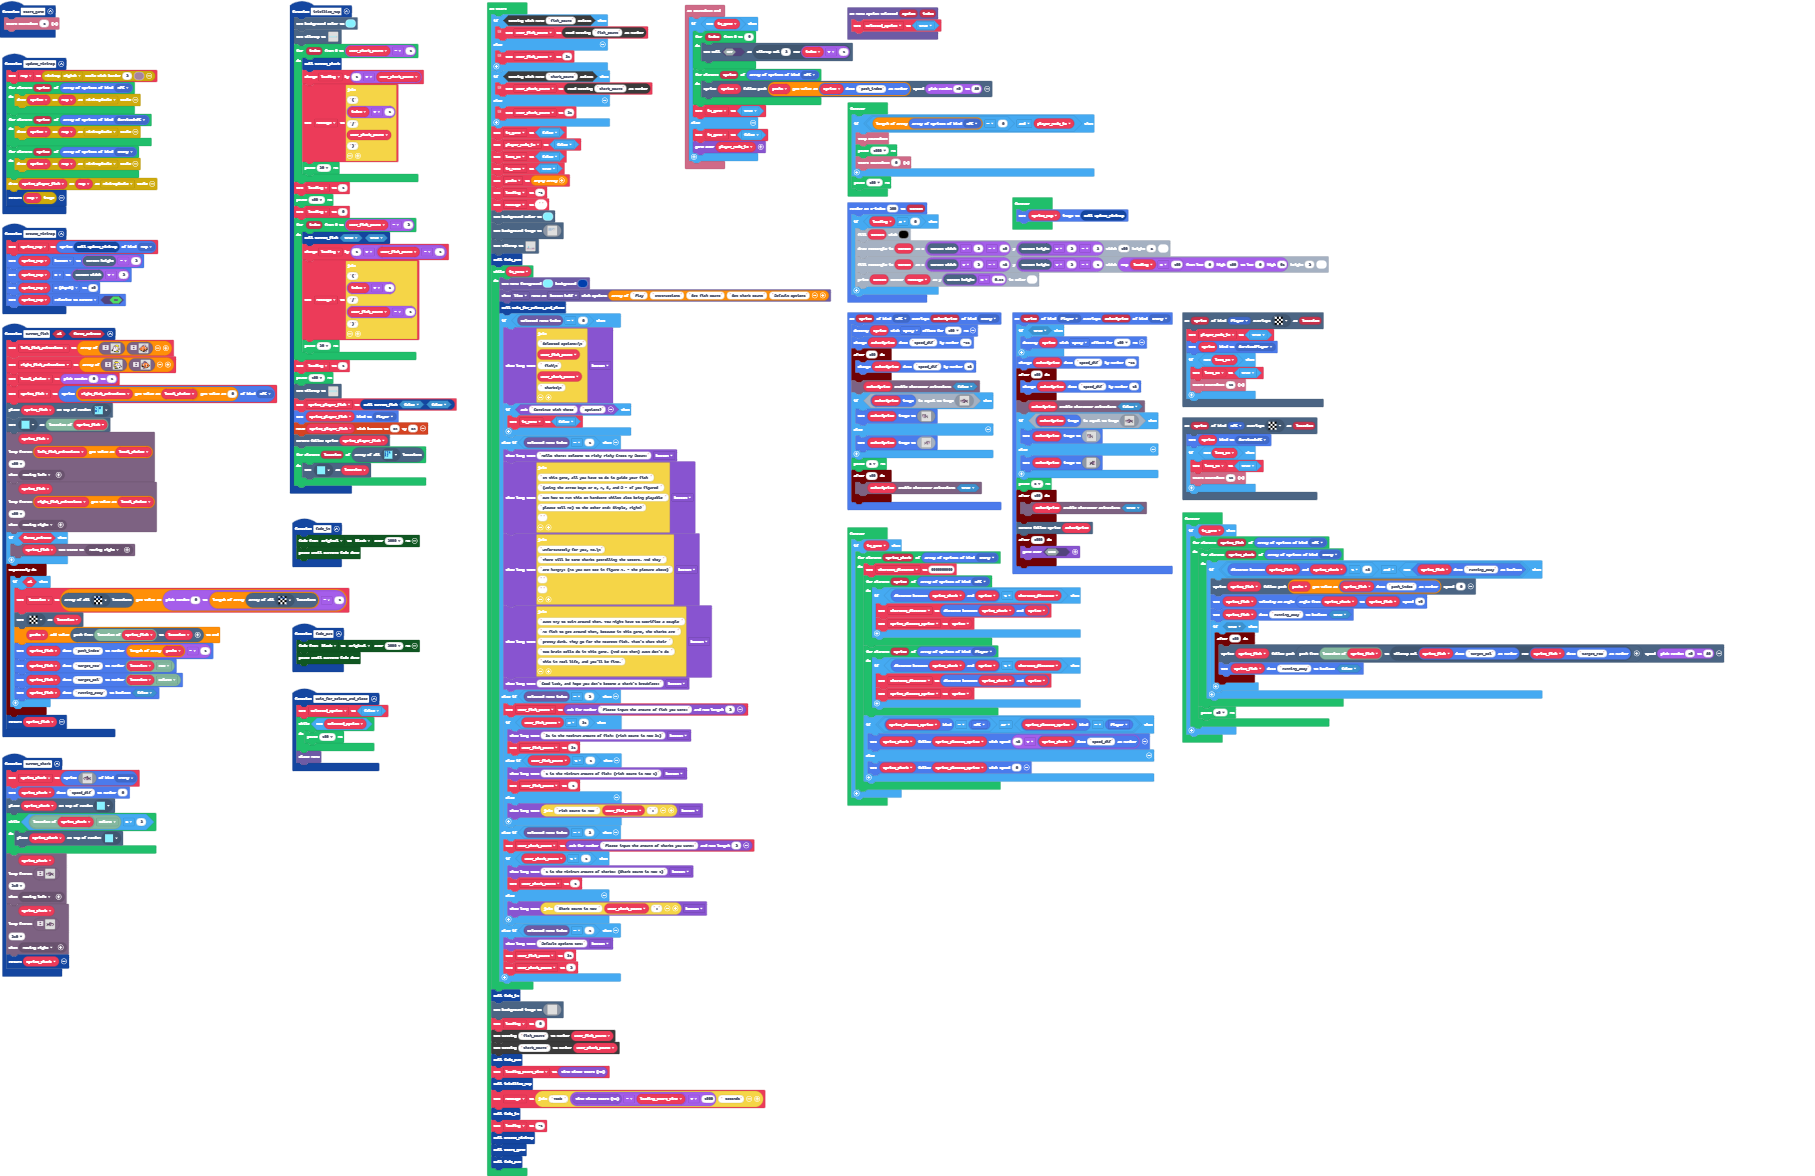
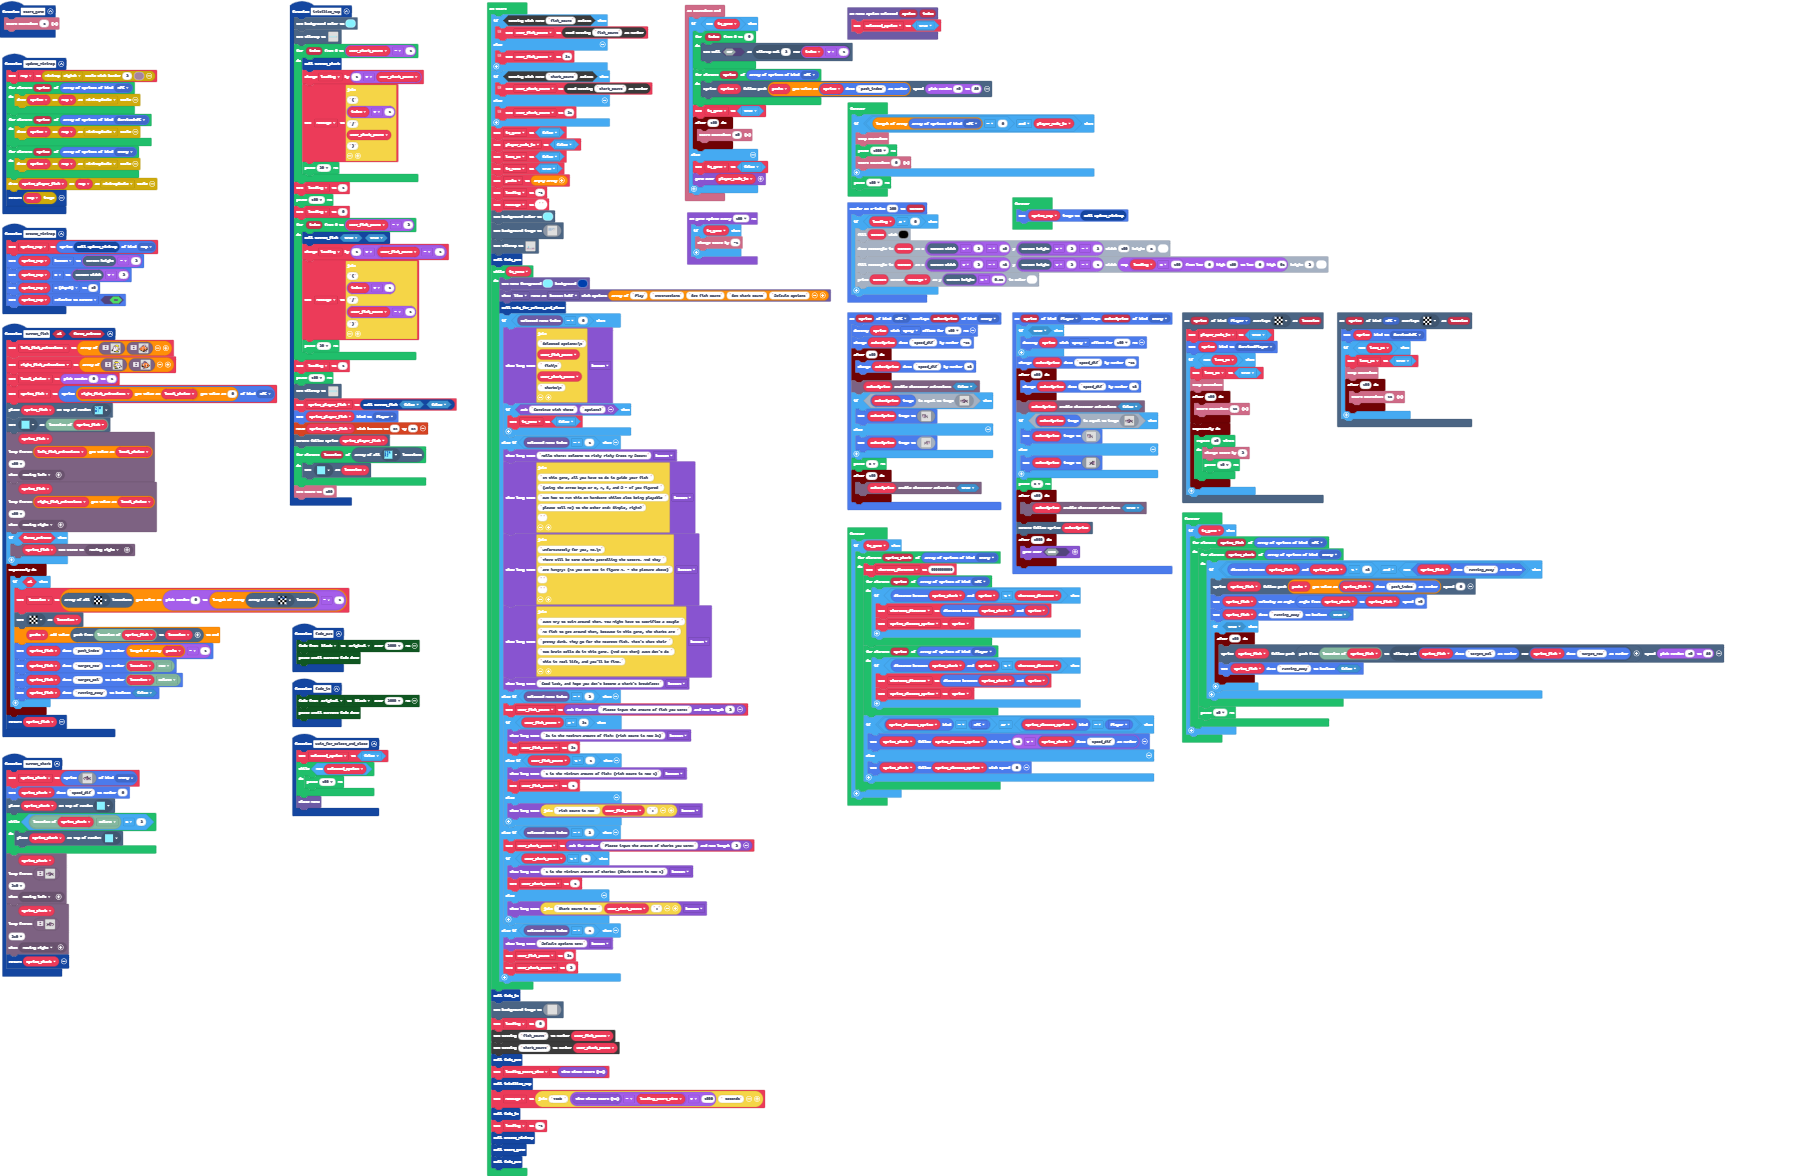
Scoring!

diff --git a/main.ts b/main.ts
@@ -119,7 +119,10 @@ scene.onOverlapTile(SpriteKind.NPC, myTiles.tile12, function (sprite, location) 
     sprite.setKind(SpriteKind.SurvivedNPC)
     if (!(last_15)) {
         last_15 = true
-        info.startCountdown(15)
+        info.stopCountdown()
+        timer.after(100, function () {
+            info.startCountdown(15)
+        })
     }
 })
 function fade_out () {
@@ -142,6 +145,9 @@ info.onCountdownEnd(function () {
             scene.followPath(sprite, paths[sprites.readDataNumber(sprite, "path_index")], randint(40, 80))
         }
         in_game = true
+        timer.after(100, function () {
+            info.startCountdown(60)
+        })
     } else {
         in_game = false
         game.over(player_made_it)
@@ -156,7 +162,16 @@ scene.onOverlapTile(SpriteKind.Player, myTiles.tile12, function (sprite, locatio
     sprite.setKind(SpriteKind.SurvivedPlayer)
     if (!(last_15)) {
         last_15 = true
-        info.startCountdown(15)
+        info.stopCountdown()
+        timer.after(100, function () {
+            info.startCountdown(15)
+        })
+        timer.background(function () {
+            for (let index = 0; index < 50; index++) {
+                info.changeScoreBy(2)
+                pause(10)
+            }
+        })
     }
 })
 sprites.onOverlap(SpriteKind.NPC, SpriteKind.Enemy, function (sprite, otherSprite) {
@@ -284,6 +299,7 @@ function initilize_map () {
     for (let location of tiles.getTilesByType(myTiles.tile13)) {
         tiles.setTileAt(location, myTiles.tile15)
     }
+    info.setScore(600)
 }
 function update_minimap () {
     map = minimap.minimap(MinimapScale.Eighth, 2, 11)
@@ -541,11 +557,11 @@ scene.setBackgroundImage(img`
     ...........................................................................................................ffcbbbbbff1cccc1f...f44144fc4144f44f.................
     ..........................................................................................................fcccbcbcbb1c1c1cff...fff144f4c144444f.................
     ......666666666...666666666...666666666...666666666...6666.....666...666..........................ccccc..fcccbcbcbbb1333ccf......fd44f4414444f..................
-    ......6888888888..6888888888..6888888888..6888888888..6888.....6888..6888..8...888...8.8..........cbbddcfccccbcbcbbb1c333c........fd44cc4144f...................
-    ......6888888888..6888888888..6888888888..6888888888..6888.....6888..6888..8.....8...8.8...........ccbddcccccbbbbbbb1c333c........fc444444df....................
+    ......6888888888..6888888888..6888888888..6888888888..6888.....6888..6888..8...888...888..........cbbddcfccccbcbcbbb1c333c........fd44cc4144f...................
+    ......6888888888..6888888888..6888888888..6888888888..6888.....6888..6888..8.....8...8.............ccbddcccccbbbbbbb1c333c........fc444444df....................
     ......6888888888..6888888888..6888888888..6888888888..688866...6888..6888..8...888...888............ccbbccccccbbbbb11c333c.......cbdc4444ff.....................
     ......6888..6888..6888........6888........6888..6888..6888888..6888..6888..8...8.......8............fccbfccccccbbbb11c133cc......cdddffff.......................
-    ......6888..6888..6888........6888........6888..6888..6888888..6888..6888..8.8.888.8...8............fccfcbbcccccbbbc11c31cc.......ccc...........................
+    ......6888..6888..6888........6888........6888..6888..6888888..6888..6888..8.8.888.8.888............fccfcbbcccccbbbc11c31cc.......ccc...........................
     ......6888..6888..6888........688866666...6888666888..6888888666888..6888..........................fcbbf.cdddddfbbbc111111c.....................................
     ......6888..6888..6888........6888888888..6888888888..6888..6888888..6888..........................fbbf...cdddfbbdbf1111cc......................................
     ......6888..6888..6888........6888888888..6888888888..6888..6888888..6888.........................fbbf.....ccfbbdbfffccc........................................
@@ -858,5 +874,10 @@ forever(function () {
             }
             pause(50)
         }
+    }
+})
+game.onUpdateInterval(100, function () {
+    if (in_game) {
+        info.changeScoreBy(-1)
     }
 })
